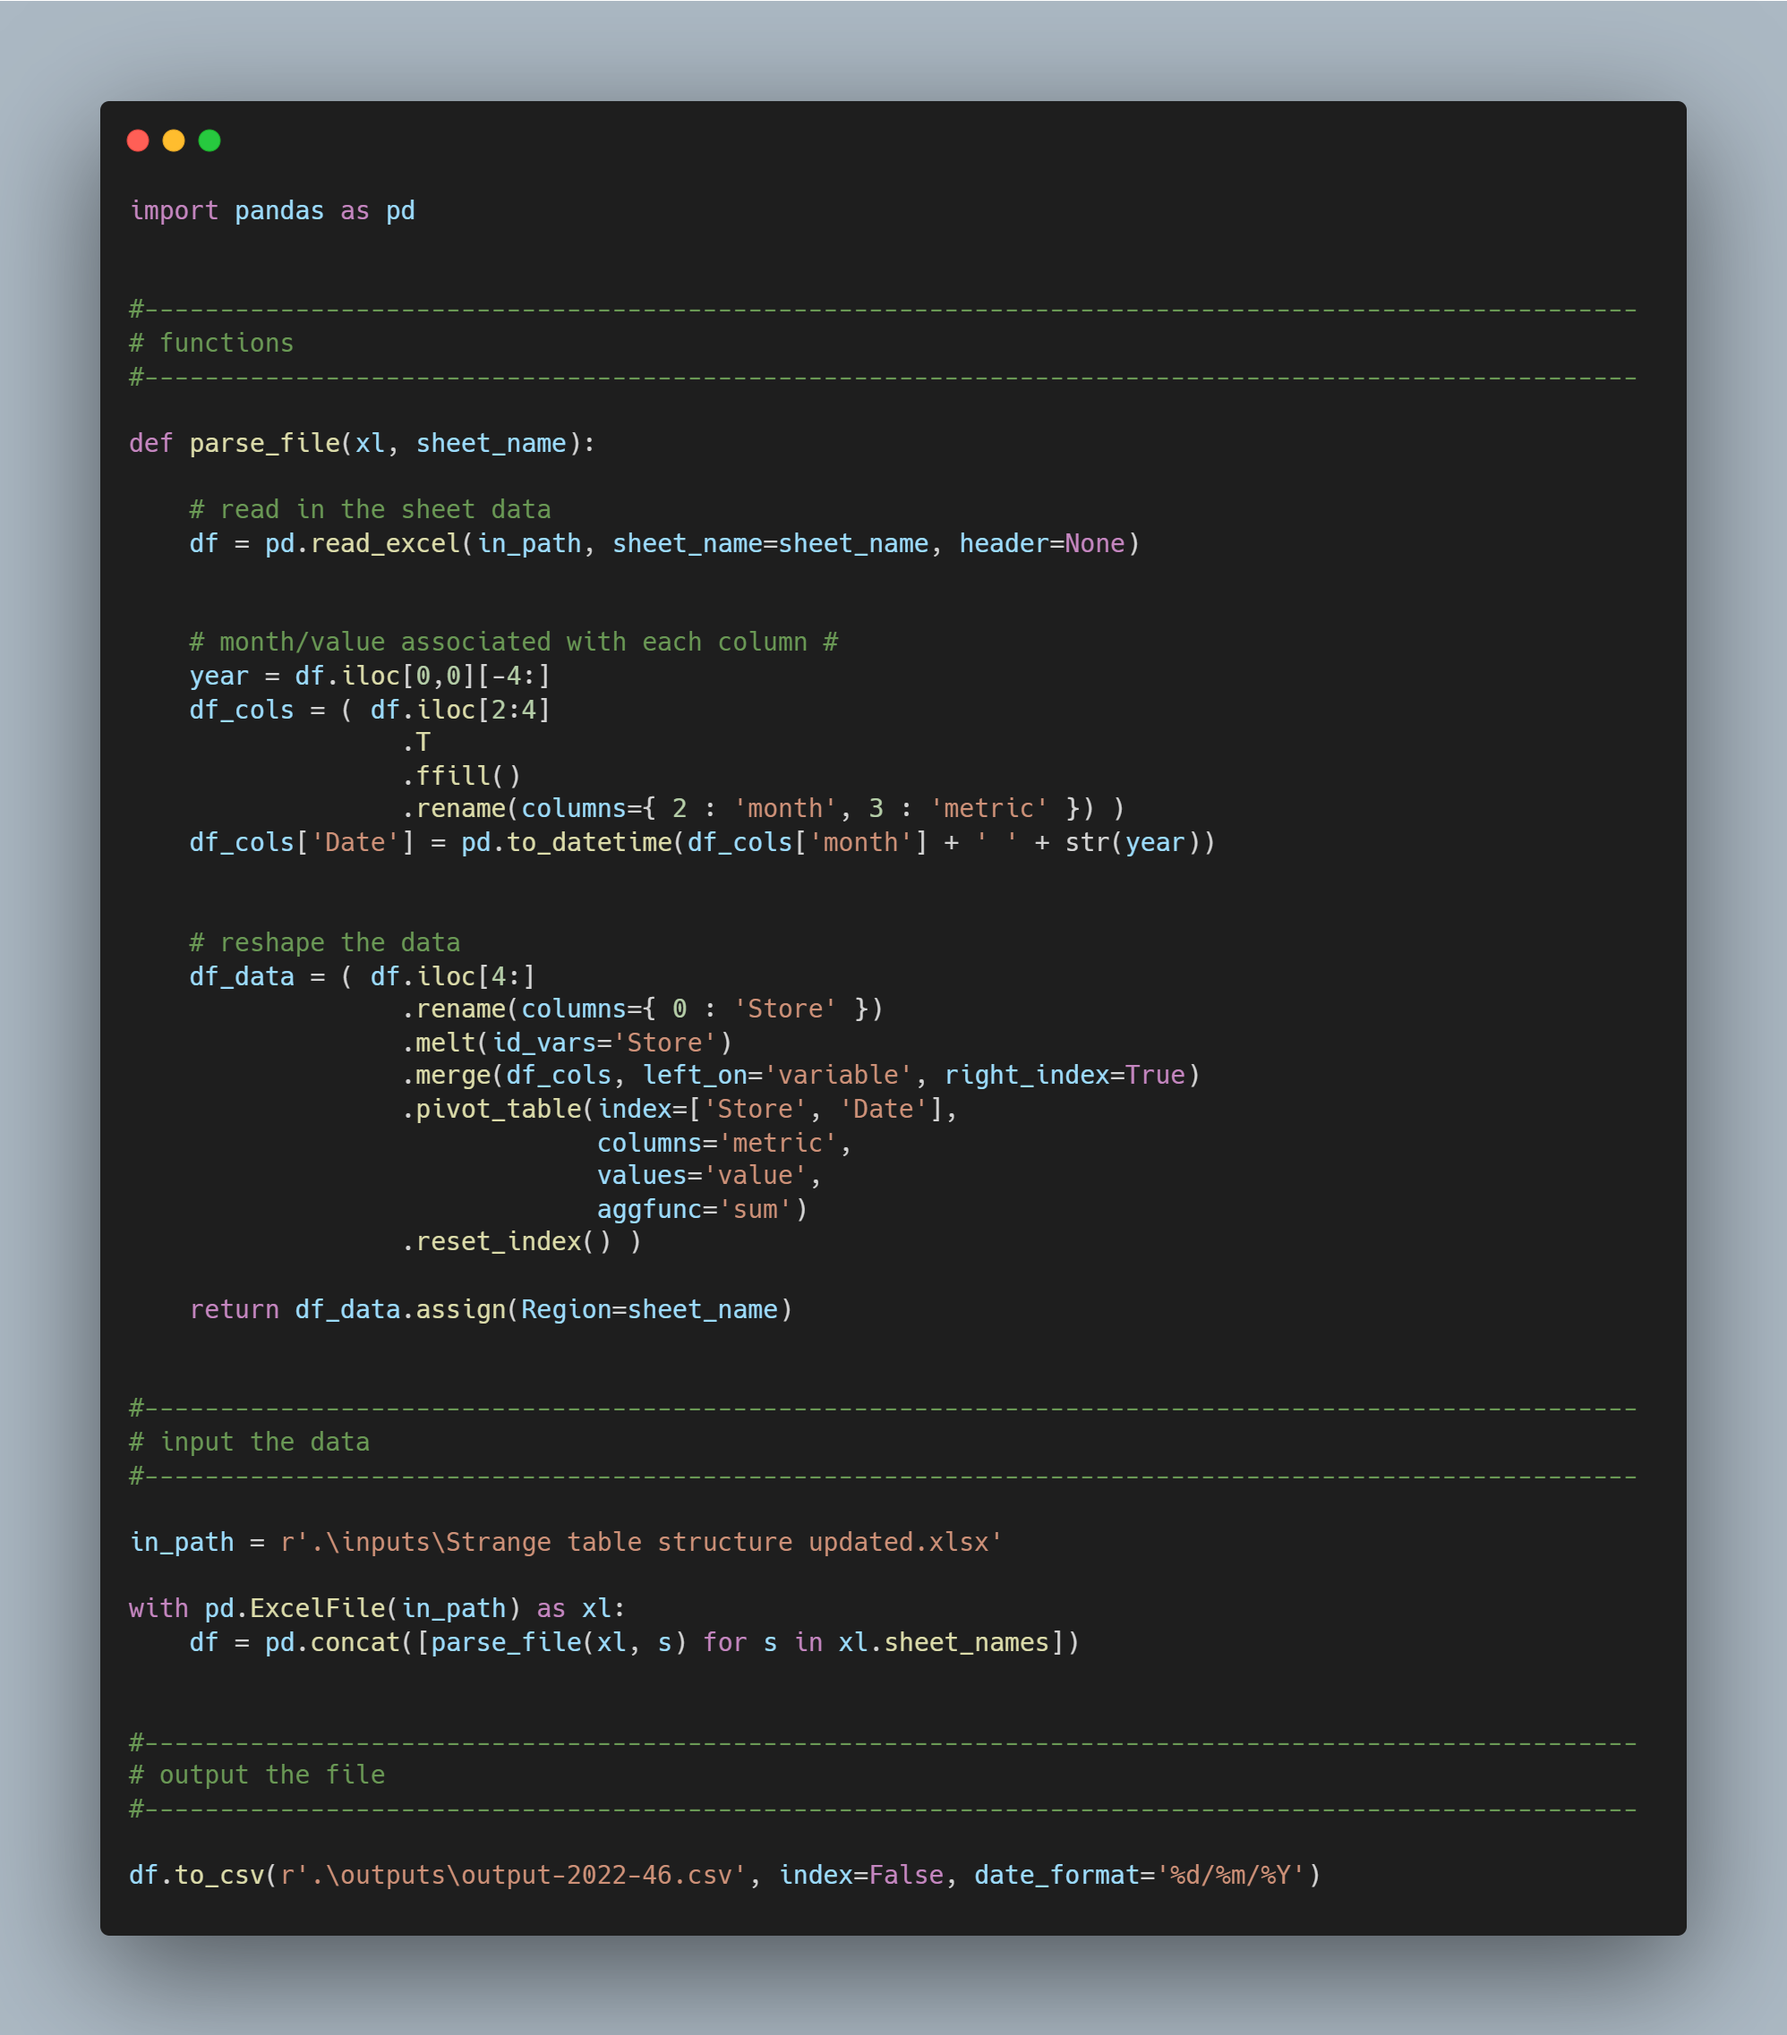
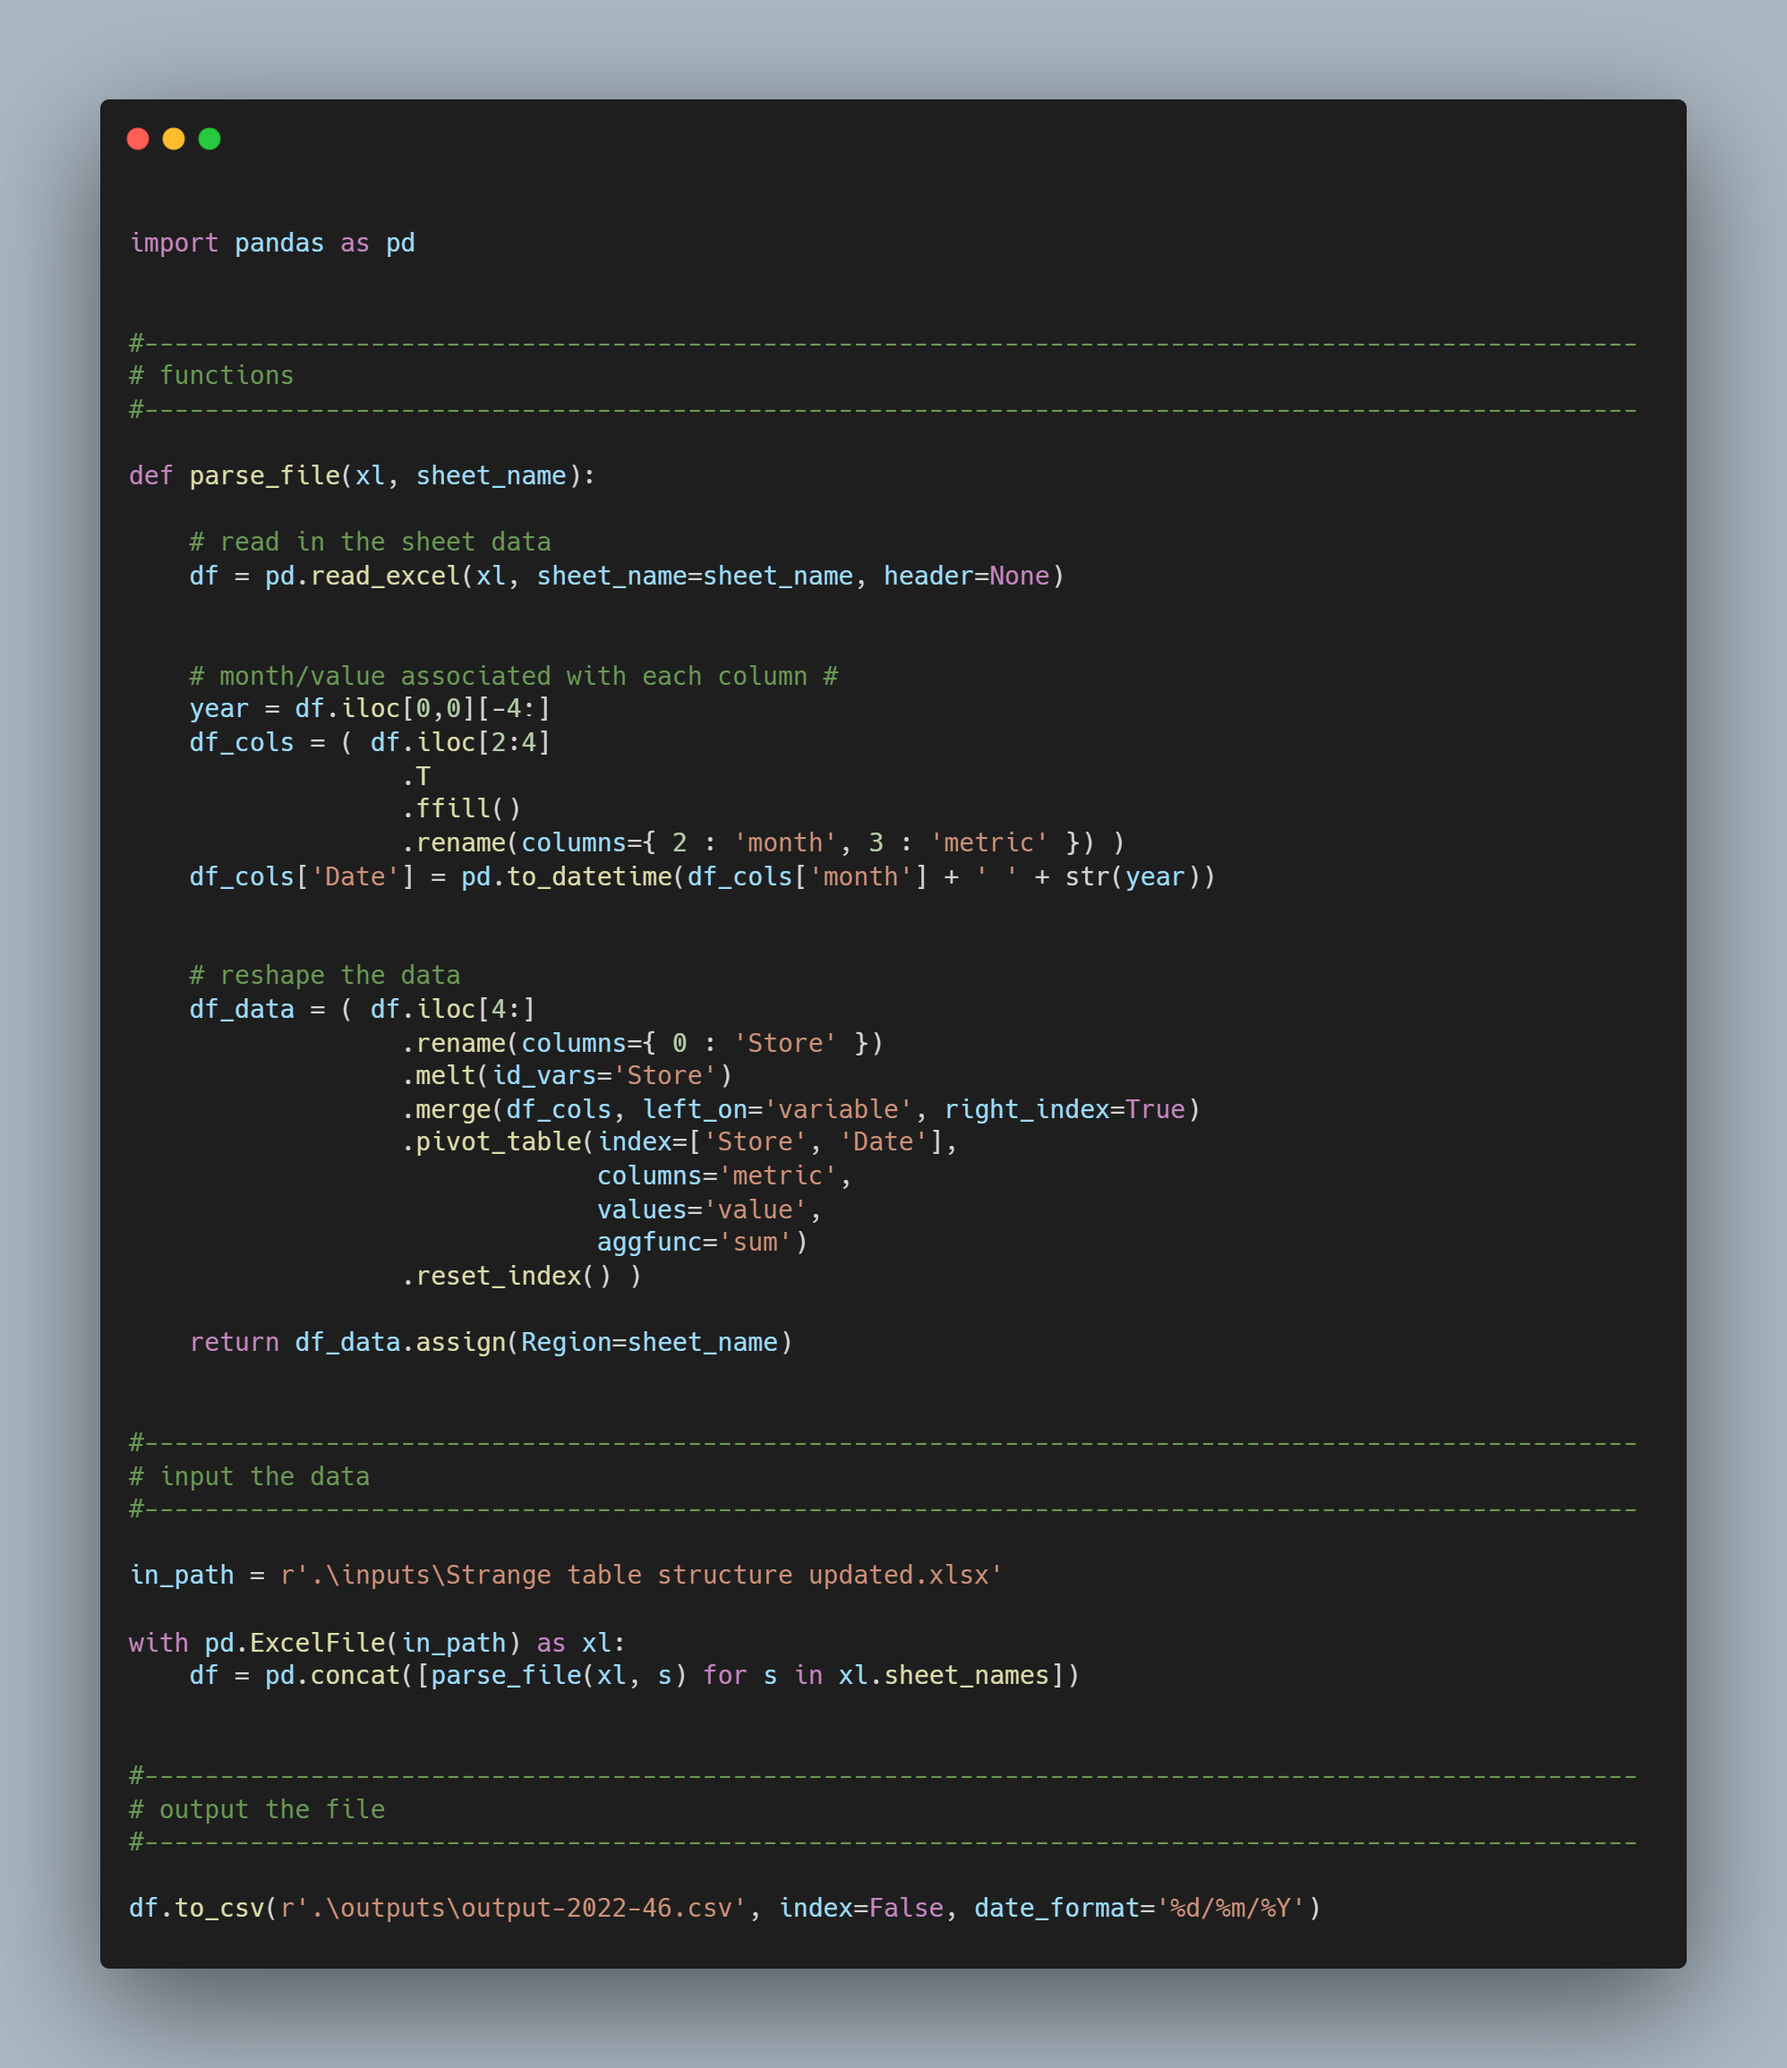
Corrected duplicate path variable in week 2022-46

diff --git a/2022/preppin-data-2022-46/preppin-data-2022-46.py b/2022/preppin-data-2022-46/preppin-data-2022-46.py
@@ -28,7 +28,7 @@ from output_check import output_check    # custom function for checking my outpu
 def parse_file(xl, sheet_name):
 
     # read in the sheet data
-    df = pd.read_excel(in_path, sheet_name=sheet_name, header=None)
+    df = pd.read_excel(xl, sheet_name=sheet_name, header=None)
         
     
     # month/value associated with each column #
